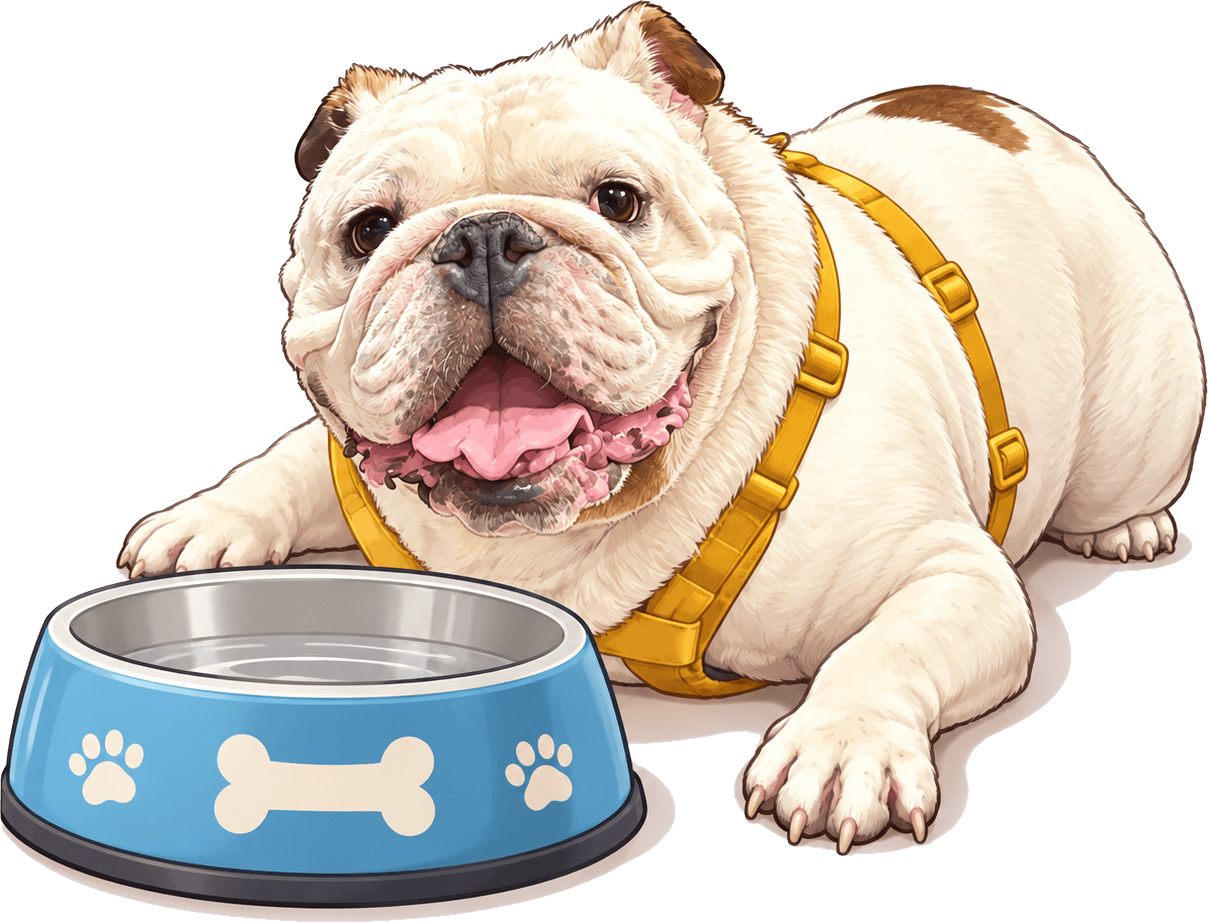
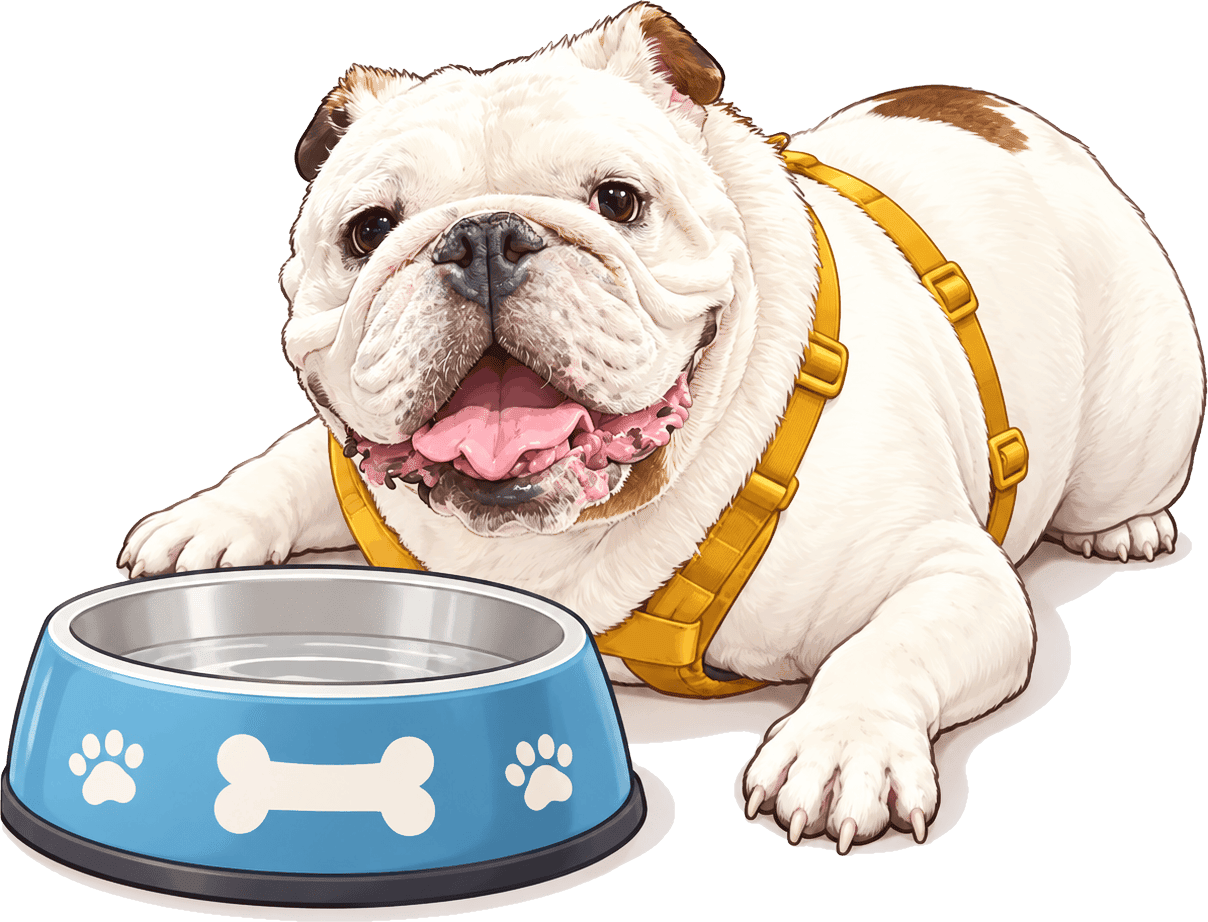
wishjar: 米其林碗的白毛調白（去米黃色） (#134)
Claude-Session: https://claude.ai/code/session_01J1mi4tysD9zT14bgkgKuBd

diff --git a/tools/whiten_dog.py b/tools/whiten_dog.py
@@ -1,0 +1,38 @@
+#!/usr/bin/env python3
+"""把許願碗的米其林（鬥牛犬）白毛調白一點（去掉米黃色）。
+用法：python3 tools/whiten_dog.py [--strength 0.6] 檔案.png [檔案2.png ...]（直接覆蓋原檔，原圖請先用 git 保留）
+只動「偏黃的淺色毛」：棕色斑塊、黃色胸背帶、粉紅舌頭、藍色碗不會被動到。"""
+import sys, argparse
+import numpy as np
+from PIL import Image
+
+def whiten(path, strength):
+    im = Image.open(path).convert('RGBA')
+    a = np.asarray(im).astype(np.float32) / 255.0
+    r, g, b, al = a[..., 0], a[..., 1], a[..., 2], a[..., 3]
+    mx = a[..., :3].max(-1); mn = a[..., :3].min(-1)
+    v = mx; s = np.where(mx > 0, (mx - mn) / np.maximum(mx, 1e-6), 0)
+    warm = (r >= g) & (g >= b)                                   # 偏黃／偏橘（紅>綠>藍），藍色碗、粉紅舌頭不會中
+    # 毛色：亮、飽和度低～中。棕斑（暗、飽和高）與黃色背帶（飽和很高）排除
+    w_v = np.clip((v - 0.50) / 0.25, 0, 1)
+    w_s = np.clip((0.55 - s) / 0.20, 0, 1)
+    w = (w_v * w_s * warm).astype(np.float32)
+    w = w * strength
+    s2 = s * (1 - 0.75 * w)                                      # 去掉黃味
+    v2 = np.minimum(1.0, v + (1 - v) * 0.45 * w)                # 稍微提亮
+    # 用新的 s、v 還原 RGB（保持原本的色相比例）
+    scale = np.where(mx > 0, v2 / np.maximum(mx, 1e-6), 1)
+    out = np.empty_like(a)
+    for i in range(3):
+        c = a[..., i] * scale
+        # 向灰色靠攏：新的飽和度
+        gray = v2
+        c = gray - (gray - c) * np.where(s > 1e-6, s2 / np.maximum(s, 1e-6), 1)
+        out[..., i] = np.clip(c, 0, 1)
+    out[..., 3] = al
+    Image.fromarray((out * 255 + 0.5).astype(np.uint8), 'RGBA').save(path)
+
+if __name__ == '__main__':
+    ap = argparse.ArgumentParser(); ap.add_argument('files', nargs='+'); ap.add_argument('--strength', type=float, default=0.6)
+    A = ap.parse_args()
+    for f in A.files: whiten(f, A.strength); print('ok', f)

diff --git a/CLAUDE.md b/CLAUDE.md
@@ -392,7 +392,7 @@
 | `tools/test_duel.js` | 單挑賽規則的自動測試（`node tools/test_duel.js`，不用開瀏覽器） |
 | `songrequest/index.html` | **另一個小程式：TikTok 直播點歌**（單頁；留言 `#歌名` → YouTube 搜尋 → 內嵌播放＋待播清單；網址 `…/Curry_Live/songrequest/`，OBS 加 `?obs=1`；設定存在網址裡；2026-11-20 最小版，沒在真的 TikFinity／YouTube 金鑰下測過；同日加歌詞：點歌成功後用影片標題、長度去 LRCLIB 查帶時間軸歌詞，跟著播放秒數顯示上一句／這一句／下一句，長度差超過 8 秒不採用，主播留言「歌詞提前／歌詞延後／歌詞歸零」或按鈕微調 0.5 秒；⚠ 沒對真的 LRCLIB 測過，華語歌命中率未知；2026-11-20 OBS 網址改短：設定（含 YouTube 金鑰）存進 Supabase（同亂鬥的 `live_get`／`live_put`，槽位 `songreq`），網址只帶雲端代號 `?obs=1&c=代號`，面板改設定停 0.8 秒自動存、OBS 畫面每 30 秒讀回套用；存雲端失敗時自動退回長網址；代號＝密碼，面板有「換新代號」；同日加音量與「顯示播放器」開關：面板滑桿設預設音量（預設 80，存雲端）、播放器上 🔉🔊 或主播留言「音量 30」可臨時調（雲端那份沒變就不會被蓋回去），關掉顯示播放器時影片移到畫面外、只剩聲音／歌名／歌詞／清單，自動播放被擋時會暫時顯示；⚠ 關掉播放器時 YouTube 是否照常播、是否違反 YouTube 對嵌入播放器的規定，沒驗證；2026-11-21 加「備用金鑰」（咖哩有兩個帳號、不同專案）：主要金鑰回 quotaExceeded 就改用備用的，用完的金鑰記在瀏覽器到太平洋時間午夜，兩把都用完才顯示額度用完；額度是算在專案上，備用金鑰必須來自不同專案；⚠ 用多個專案是否違反 YouTube 規定官方沒明說（額度擴充表單會問有沒有用多專案），風險由咖哩自行承擔，沒對真的 YouTube 測過；同日加「歌名記憶」：成功搜過的「歌名→影片」存雲端（同代號下的 `songreq-cache` 槽，最多 400 首、淘汰最久沒用的），下次開播先讀回來，命中就不花 YouTube 額度，命中時仍用目前的長度／黑名單重判；只有歌名打得一樣（不分大小寫、空白合併）才命中；影片放不出來時會把那筆記憶刪掉；⚠ 沒對真的 Supabase 測過；2026-11-21 加「自動重播」：沒人點歌也沒待播歌時，從這場觀眾點的第一首開始照順序重播、放完一輪回到第一首（只記在記憶體，重新整理就重新累積；面板有開關，預設開），觀眾一點歌就等正在放的這首放完再換觀眾的，放不出來的歌會從重播輪替裡拿掉；同日卡片與歌詞背景改透明，字改用黑色粗外框撐住，沒歌在放時 OBS 不留空播放器，右下提示條（點歌成功等）仍是黑底；2026-11-21 加「主播控制台」`songrequest/pad.html`：設定面板按「🎛 開啟主播控制台」開（帶 `?c=雲端代號`），OBS 畫面把狀態寫到雲端 `songreq-state`、每 1 秒讀 `songreq-cmd` 的指令（控制台存最近 20 個有遞增編號的指令，OBS 只執行比自己記的新的，第一次載入只記編號不重播），控制台可暫停／繼續／跳過／清空／**停止點歌**（暫停＋清空＋擋下新點歌＋關自動重播）／開始點歌／音量／歌詞微調／自動重播開關／待播清單單首刪除或插隊，並看到目前播放與待播；延遲約 1～3 秒，OBS 超過 45 秒沒回報就顯示離線；主播也可留言「停止點歌」「開始點歌」；用長網址（沒帶 `c=`）的 OBS 不支援控制台；2026-11-21 字級調整：歌詞縮小（目前句 42→32px、上下句 24→18px）、歌名 15→22px、待播清單 13→18px，主播控制台縮小（寬 460→330px、按鈕與間距變小，小視窗 440x760→340x560）；2026-11-23 加「廣告中」提示：歌詞區偵測到播放器的影片代號或長度跟要播的歌對不上時，顯示「📢 廣告中，歌詞稍後繼續」並暫停歌詞，廣告結束自動接回（`adPlaying()`）；⚠ 偵測方式是猜的（用假播放器測過，沒對真的 YouTube 廣告測過，可能偵測不到或誤判）；程式不能跳過廣告，要免廣告得用 Premium 登入播放的瀏覽器；2026-11-24 管理員帳號可填多個：設定頁「管理員的 TikTok 帳號」用逗號／頓號／空白分開，任一個帳號留言都能用主播指令（`hostIds()`／`isHost()`，仍比對帳號代號不比暱稱；舊的單一帳號設定照常可用）；2026-11-24 控制台拿掉頁尾「代號後 4 碼」字樣，並在載入後把網址列的代號拿掉（改記在這個瀏覽器的 `songreq.code`，重新整理仍可用；瀏覽器存不進去就保留網址）；⚠ 小視窗標題列仍會顯示網址（瀏覽器控制）但不再帶代號；用假資料測過；2026-11-24 修「一直顯示剛剛播過了」：原本播過的歌整場都不能再點，現在只擋 5 分鐘內播過的（`REPEAT_BLOCK_MS`，一開始是 10 分鐘，咖哩嫌長改 5），超過就能再點；自動重播不受影響） |
 | `songrequest/pad.html` | 點歌「主播控制台」（在一般瀏覽器開，透過雲端遙控 OBS 裡的點歌畫面；說明見上一列） |
-| `wishjar/index.html`／`setup.html`／`bowls.js`／`matter.min.js` | **另一個小程式：禮物許願碗**（2026-11-25 咖哩要求，仿 TikFinity 的許願瓶效果；一開始做成梅森罐玻璃瓶，咖哩給了一張淺藍色碗的圖後改成碗；單頁，網址 `…/Curry_Live/wishjar/`，OBS 加 `?obs=1`；**跟點歌程式完全分開，咖哩要求不要混在一起**）：畫面上一個淺藍色的碗（**2026-11-25 咖哩給了一張網路上的公開素材碗圖，說是公開素材，來源與授權 Claude 無法確認，使用由咖哩自行負責**；原圖只有 260x260，而且「透明背景」是假的棋盤格圖案，所以用程式把背景去掉、碗口內側的棋盤格換成淡淡的瓷白，再放大 3 倍存成 `wishjar/bowl_back.png`（碗口內側＋碗身，畫在銅錢後面）與 `bowl_front.png`（碗身前面一層，30% 透明蓋在銅錢上），碗圖本身有一個缺角和裂痕；**邊框與裂痕已加粗加深**（咖哩 2026-11-25 要求，深色像素往外長粗 1 像素、碗外緣再描 2 像素，顏色深藍 `#1E3E58`）；處理程式 `python3 tools/make_bowl.py [--line N --edge N]`，原圖放在 `tools/bowl_src/bowl_original.jpg`，想再粗就加大參數重跑；圖片載入不了時退回程式畫的碗），觀眾送禮時**那個禮物自己的圖片從上面掉進碗裡**（2026-11-25 咖哩先要求過全部改成金黃色銅錢，同日又要求換回禮物圖片；銅錢圖還在程式裡，網址加 `&coin=1` 就會把所有禮物畫成金黃色銅錢：圓形帶方孔，3 種稍微不同的金黃色），裝滿了就堆過碗口、滑到碗旁邊，碗外面停下來的禮物放 7 秒後淡出消失；（2026-11-25 咖哩要求：碗上方的標題「許願碗」與「禮物個數／鑽石數」都刪掉，預設什麼文字都不顯示；網址加 `&title=文字` 可顯示標題、`&stats=1` 可顯示個數與鑽石數）。禮物越貴圖越大（碗寬的 1 鑽 11%／100 鑽 16%／1000 鑽 19%／10000 鑽 22%；2026-11-26 咖哩用 283x283 的直播小框看，說禮物太小、沒看到從上面掉下來，所以圖放大約 2 倍、碗撐到畫面寬度的 86%、掉落放慢到約 1 秒落到碗底，並改成照真實時間算物理，直播軟體跑 30 格也不會變快變慢；碗變小後只裝得下十來個，很快就會滿出來）；一次送多個會一個個掉（單次最多 25 個）；用禮物圖片時，沒有圖片網址會畫成圓圓的表情符號。物理用 Matter.js 0.19.0（MIT，檔案直接放在 `wishjar/`，授權 `MATTER_LICENSE.txt`，不用連網載入）。直接用 TikFinity 的禮物事件（`ws://localhost:21213`，格式與連送處理照亂鬥遊戲 `js/events.js`），**不用雲端、不用設定**；網址參數：`&max=` 畫面上最多幾個（預設 350，碗約裝 60～100 個，超過會滿出來）、`&cap=` 單次最多掉幾個（預設 25）、`&title=` 標題（預設不顯示）、`&stats=1` 顯示禮物個數與鑽石數、`&coin=1` 全部改畫成銅錢、`&tikfinity=0` 不連線。沒有 `obs=1` 時左上有測試按鈕（丟 1／20 個、選鑽石數、清空）。**主播留言清空碗**（2026-11-26 咖哩要求）：網址加 `&host=你的TikTok帳號`（可填多個，逗號／頓號／空白分開，不用加 @，跟點歌的管理員帳號同一種寫法），該帳號在直播間留言「清空許願碗」（也認「清空碗」「clear」，整句剛好才算，前面可加 `!`，不分大小寫）就把碗清空；比對的是帳號代號（`uniqueId`／`userId`），不比暱稱，別人改暱稱冒充不了；沒填 `&host=` 就沒有這個指令。用假聊天事件測過（路人無效、整句不對無效、主播與多個管理員有效、冒用暱稱無效）；⚠ 沒用真的 TikFinity 驗證過留言事件裡的帳號欄位。⚠ 重新整理或關掉畫面，碗裡的禮物就清空（不存檔）；用假禮物圖與假事件測過（掉落、裝滿、滿出來、碗外淡出、連送只算新增），沒用真的 TikFinity／TikTok 禮物測過，也沒在 OBS／LIVE Studio 裡看過；禮物圖片要有 TikFinity 事件帶圖片網址才有圖 **設定頁與多個碗**（2026-11-26 咖哩要求「像直播亂鬥一樣做設定頁，所有設計的碗都在裡面設定、主播帳號也在這邊設、產生直播貼上網址」）：`wishjar/setup.html`（網址 `…/Curry_Live/wishjar/setup.html`）選碗（縮圖）、填主播帳號（多個）、標題、顯示個數鑽石數、銅錢、最多個數、單次上限，即時產生貼進直播軟體的網址（只寫與預設不同的參數）並有「複製網址」與預覽視窗；設定記在這個瀏覽器（`curryLive.wishjar.setup.v1`），不上雲端。碗的清單在 `wishjar/bowls.js`（`WJ_BOWLS`：id、name、back、front、U／cx／cy／openW 碗口位置、depth／foot 碗深與圈足比例），許願碗畫面用網址 `&bowl=代號` 選（沒給用第一個）。**新增碗**：做好兩層圖（`tools/make_bowl.py` 可處理），量好碗口位置，在 `bowls.js` 加一筆，設定頁就會出現。目前有「乞丐碗」（淺藍色破碗，id `blue`）「米其林碗」（鬥牛犬藍碗，id `dog`）「大寶狗碗」（柴犬藍碗，id `shiba`）三個（2026-11-26 咖哩改的名稱，三個同時上線），之後再加「米其林碗(動畫版)」「大寶狗碗(動畫版)」共五個。**第三個「大寶狗碗」**：咖哩給的圖是同一款藍色寵物碗，旁邊趴的是柴犬（狗在右邊、碗在左邊），做法與米其林碗相同，`python3 tools/make_bowl2.py bowl3`（`make_bowl2.py` 現在可帶名稱 `bowl2`／`bowl3`，每種的碗口橢圓與外框在腳本 `PRESETS`；原圖 `tools/bowl_src/bowl3_original.png`）；柴犬的前掌比碗底低一點，所以地板取在碗底與狗掌之間（`floorGap: 16`）；來源與授權同樣由咖哩自行負責；三個碗的大圖都用 `compress_pngs.py` 壓過（合計 5.7 MB→0.7 MB）。驗證：瀏覽器測過 640x420 與 283x283、設定頁三個碗都列得出來、選大寶狗碗網址帶 `&bowl=shiba`、無程式錯誤。**第二個碗「米其林碗」**（2026-11-26 咖哩給了一張藍色寵物碗旁邊趴著一隻鬥牛犬的圖，要求碗用這個、**狗要保留**；圖是咖哩提供，來源與授權 Claude 無法確認，使用由咖哩自行負責）：`wishjar/bowl2_back.png`（整張狗＋碗，去掉白底與地上陰影）與 `bowl2_front.png`（只有碗口前緣以下的外壁、完全不透明，蓋在禮物上，所以掉進碗裡的禮物下半截被碗壁擋住），處理程式 `python3 tools/make_bowl2.py`（原圖 `tools/bowl_src/bowl2_original.png`）。`bowls.js` 這筆用 `fit: true`：整張圖等比例縮進畫面（寬最多 94%、高扣掉邊），碗在圖的左下；物理仍是「碗口橢圓前半圈當碗底」（`depth` 0.15），禮物掉進碗口、裝滿後在碗口上方往上堆（碗口正上方的禮物不會淡出），堆到滑出碗口就掉到旁邊的地板（地板＝圖底那條線，禮物落在狗前面的地上，碰到的才會 7 秒後淡出）。新欄位：`Uh` 圖高、`fit`、`floorGap`（圖底到碗底的空隙）。⚠ 碗只佔整張圖寬度的約 4 成，方形小畫面（例如 283x283）裡碗約 110 像素寬，禮物會比淺藍碗小；想要碗大一點只能讓狗被畫面切掉一部分（沒做）；左邊碗與畫面邊緣幾乎沒空隙，往左滑出的禮物會擠在邊上。驗證：瀏覽器測過 283x283 與 640x420、14／60／70 個假禮物，掉進碗裡、往上堆、滑到旁邊地板都正常、無程式錯誤；⚠ 沒在直播軟體裡看過。**米其林碗、大寶狗碗：碗外的禮物不再 7 秒後消失**（2026-11-26 咖哩要求）：改成一直留在地板上，**堆到「狗鼻子的高度」才從最下面開始一個個消失**（每 0.15 秒一個，約 0.7 秒淡出）。`bowls.js` 新欄位 `noseY`（鼻子在圖裡的高度，米其林碗 250、大寶狗碗 337，是看圖量的，不準就改這個數字；沒有這欄的乞丐碗仍是 7 秒消失）。**分三堆各算各的**：碗左邊的地板、碗右邊的地板、碗口上方堆起來的；哪一堆最高的禮物到了鼻子高度，就從那一堆最下面的開始消失（所以左邊窄窄的那條堆高了，只會消掉左邊的，不會把右邊整片地板清掉）。只算停下來的禮物，還在掉的不算。驗證：瀏覽器丟 320 個假禮物，三堆都停在鼻子線下面、少量禮物 9 秒後碗外的都還在、乞丐碗仍照舊消失；⚠ 禮物很多時地板會堆很滿（上限 `&max=`）。**動畫版（第四、第五個樣式）**（2026-11-26 咖哩要求，選「程式動畫」方案 B）：「米其林碗(動畫版)」（id `dog_anim`）「大寶狗碗(動畫版)」（id `shiba_anim`），跟原本兩個一樣的狗與碗，但**狗頭另外一層會動**，禮物掉進碗（或掉到地板）**停下來 3 秒後，狗一個個把禮物吃掉**（全部都吃：碗裡、碗口堆起來的、地板上的；先吃最早掉下來的）。做法：`python3 tools/make_bowl_head.py` 把整張狗圖切成頭（`bowl2_head.png`／`bowl3_head.png`，邊緣羽化）與身體（`bowl2_body.png`／`bowl3_body.png`，頭那一塊挖掉；但頭後面其實是身體的地方——右邊肩膀、下面胸口——原樣留著，頭動起來才不會露出洞），頭的外框是看圖手動框的（`PRESETS`，外框會再往外放 10 像素把描邊一起帶走）。`bowls.js` 新欄位 `anim`（head 圖、hx／hy 頭圖左上角位置、px／py 轉動支點＝脖子、mx／my 嘴巴位置）。**吃的流程**（`index.html` 的 `eatTick`）：禮物停下來（速度很小）滿 3 秒才算可以吃；每隔一小段（排隊越多越短，0.9 秒～0.28 秒）挑最早的一個，變成不受碰撞、沿弧線飛向嘴巴（0.52 秒、越縮越小），到嘴巴就消失並讓狗咬一口；吃的時候狗頭低下去（往碗的方向歪 5 度、往下 30、往左 14，單位是圖上的格）並上下嚼，沒東西吃了 0.7 秒後抬回來；平常有很輕微的呼吸晃動。狗頭只會往下、往碗那邊動，不會往上，不然會露出頭原本的位置。**不用逐格圖**，所以畫風跟原圖完全一樣，但動作比較像紙偶（整顆頭一起動，嘴巴不會真的張合）。原本的「堆到鼻子高度就從最下面消失」仍然有效，當吃不完時的保險。驗證：瀏覽器測過兩隻 14 個假禮物 3～4 秒後開始吃、全部吃完、狗頭回正，非動畫版完全不吃、無程式錯誤，截圖看過頭低下去時沒有露出洞或殘邊；⚠ 沒在直播軟體裡看過，禮物很多時（吃得比掉得慢）還是會堆起來；嘴巴位置與頭低下去的幅度是抓的。**動畫版改用逐格動畫**（2026-11-26 咖哩用 Gemini 照 `tools/anim_prompts/wishjar_dog.md` 的提示詞生了兩張「站起來→吐舌捲禮物→咬→趴回去」8 格圖，原圖 `tools/bowl_src/dogsheet_bowl2.jpg`／`dogsheet_bowl3.jpg`）：第四、第五個樣式現在是**整隻狗換成逐格動畫**（取代前面說的「頭低下去」紙偶版，紙偶版的程式 `anim.head` 還留著但沒有樣式在用）。流程：`python3 tools/make_dog_strip.py <生圖> dogstrip_bowl2`（4x2 切格、綠底去背含去綠邊、每格右下角＝屁股＋腳底對齊成一排）；`python3 tools/make_bowl_only.py`（從原本「狗＋碗」圖取出只有碗的 `bowl2_bowl.png`／`bowl3_bowl.png`）。`bowls.js` 的 `anim` 改成 `sheet／n／fw／fh／k／ax／ay／states／mouth`（k 縮放、ax／ay 每格右下角貼在圖上的位置、states 各階段用哪幾格、mouth 每格嘴巴位置，都是看圖量的），`pad`＝圖上方多留的空間（狗站起來比較高），因此這兩筆的 `Uh`、`cy`、`noseY` 都已加上 pad。**狗的階段**（`index.html` 的 `dogTick`）：趴著（第 8 格）→ 一開始吃就播站起來（第 8、2、3 格，每秒 8 格）→ 吃的時候循環低頭吐舌與咬（第 3、4、6、7 格，每秒 5 格）→ 吃完 0.9 秒沒東西就趴回去（第 7、2、8 格）；禮物飛向「現在那一格」的嘴巴位置。⚠ Gemini 生的各格身體姿勢不完全一致（站姿與趴姿體型、角度略有不同），播放時有一點跳動感，趴姿的狗也跟原圖不完全一樣；第 1 格的屁股被格子邊切掉所以沒用；嘴巴位置是看圖估的；沒在直播軟體裡看過。**四個狗碗的禮物圖放大**（2026-11-26 咖哩反映「禮物圖片太小」）：`bowls.js` 新欄位 `giftScale`（禮物圖放大幾倍，預設 1，四個狗碗都設 1.8，因為整張狗圖縮進畫面後碗比較小，禮物按碗寬算就太小）；碗裡能裝的數量會變少（約 10 來個就滿）。驗證：283x283 與 640x440 各丟 22 個假禮物，圖明顯變大、無程式錯誤；⚠ 沒在直播軟體裡看過。**最低鑽石數**（同日咖哩要求在設定頁設）：設定頁「幾鑽以上的禮物才會掉下來」，網址 `&min=鑽石數`（預設 0＝全掉），比的是單個禮物的鑽石數（不是連送總數），低於的完全不掉也不算進個數；測試按鈕同樣受限制。驗證：瀏覽器測過設定頁產生網址、重新整理後設定還在、預覽可丟禮物、`&bowl=blue&host=` 開啟正常、無程式錯誤；⚠ 只有一個碗所以沒測過換碗，沒在直播軟體裡看過。 **左右都要有地面＋新的消失順序**（2026-11-26 咖哩看直播截圖後要求）：①四個狗碗在碗的左邊多留一塊地面（`bowls.js` 新欄位 `padLeft`＝碗左邊多留的圖上寬度，狗碗都是 330，版面算寬度時把它算進去）；②乞丐碗改小（新欄位 `widthFrac`＝碗寬佔畫面寬度的比例，預設 0.86，乞丐碗 0.58），左右各有地面，並加 `noseY: 8` 讓它也用新規則（不再 7 秒消失）；③消失順序改成：**先讓左右地面各自堆到碗口的高度**，碗口上方那一堆若超過鼻子線，會先被推到比較空的那一邊地面去；**左右地面都滿到碗口高度、碗上方的堆又到鼻子線時，才從「碗裡最下面、左邊地面最下面、右邊地面最下面」三者隨機挑一個消失**；某一邊地面自己高過鼻子線時，也會單獨從那邊最下面消失（超過越多消失越快）。程式 `index.html` 的 `fadeOutside()`。驗證：瀏覽器用 360x330／900x330／300x300 連續丟禮物（每 0.12 秒一個），總數維持在約 40～90 個、沒有程式錯誤，截圖看過狗碗左邊有地面、乞丐碗左右有空間；⚠ 碗口上方那堆有時會略高於鼻子線一點（沒有完美壓住），沒逐一確認「地面先堆到碗口高度才開始隨機消失」的先後，沒搭配動畫版狗吃禮物長時間測，沒在直播軟體裡看過。 **動畫版：超過幾鑽的禮物狗不吃**（2026-11-26 咖哩要求）：設定頁「動畫版的狗：單個禮物超過幾鑽就不吃」，網址 `&noeat=鑽石數`（預設 0＝全部都吃；比的是單個禮物的鑽石數，**超過**才不吃，剛好等於不算）；不吃的禮物留在碗裡或地上，堆太高時仍照原本規則從最下面消失；只對動畫版兩個碗有用。程式 `index.html` 的 `eatTick`（物件新增 `dia` 欄位記鑽石數）。驗證：動畫版丟 1／10／500／1000 鑽各一個、`&noeat=100`，12 秒後只剩 500、1000 鑽的；設定頁填 100 網址帶 `&noeat=100`、重新整理後還在；⚠ 沒在直播軟體裡看過。 |
+| `wishjar/index.html`／`setup.html`／`bowls.js`／`matter.min.js` | **另一個小程式：禮物許願碗**（2026-11-25 咖哩要求，仿 TikFinity 的許願瓶效果；一開始做成梅森罐玻璃瓶，咖哩給了一張淺藍色碗的圖後改成碗；單頁，網址 `…/Curry_Live/wishjar/`，OBS 加 `?obs=1`；**跟點歌程式完全分開，咖哩要求不要混在一起**）：畫面上一個淺藍色的碗（**2026-11-25 咖哩給了一張網路上的公開素材碗圖，說是公開素材，來源與授權 Claude 無法確認，使用由咖哩自行負責**；原圖只有 260x260，而且「透明背景」是假的棋盤格圖案，所以用程式把背景去掉、碗口內側的棋盤格換成淡淡的瓷白，再放大 3 倍存成 `wishjar/bowl_back.png`（碗口內側＋碗身，畫在銅錢後面）與 `bowl_front.png`（碗身前面一層，30% 透明蓋在銅錢上），碗圖本身有一個缺角和裂痕；**邊框與裂痕已加粗加深**（咖哩 2026-11-25 要求，深色像素往外長粗 1 像素、碗外緣再描 2 像素，顏色深藍 `#1E3E58`）；處理程式 `python3 tools/make_bowl.py [--line N --edge N]`，原圖放在 `tools/bowl_src/bowl_original.jpg`，想再粗就加大參數重跑；圖片載入不了時退回程式畫的碗），觀眾送禮時**那個禮物自己的圖片從上面掉進碗裡**（2026-11-25 咖哩先要求過全部改成金黃色銅錢，同日又要求換回禮物圖片；銅錢圖還在程式裡，網址加 `&coin=1` 就會把所有禮物畫成金黃色銅錢：圓形帶方孔，3 種稍微不同的金黃色），裝滿了就堆過碗口、滑到碗旁邊，碗外面停下來的禮物放 7 秒後淡出消失；（2026-11-25 咖哩要求：碗上方的標題「許願碗」與「禮物個數／鑽石數」都刪掉，預設什麼文字都不顯示；網址加 `&title=文字` 可顯示標題、`&stats=1` 可顯示個數與鑽石數）。禮物越貴圖越大（碗寬的 1 鑽 11%／100 鑽 16%／1000 鑽 19%／10000 鑽 22%；2026-11-26 咖哩用 283x283 的直播小框看，說禮物太小、沒看到從上面掉下來，所以圖放大約 2 倍、碗撐到畫面寬度的 86%、掉落放慢到約 1 秒落到碗底，並改成照真實時間算物理，直播軟體跑 30 格也不會變快變慢；碗變小後只裝得下十來個，很快就會滿出來）；一次送多個會一個個掉（單次最多 25 個）；用禮物圖片時，沒有圖片網址會畫成圓圓的表情符號。物理用 Matter.js 0.19.0（MIT，檔案直接放在 `wishjar/`，授權 `MATTER_LICENSE.txt`，不用連網載入）。直接用 TikFinity 的禮物事件（`ws://localhost:21213`，格式與連送處理照亂鬥遊戲 `js/events.js`），**不用雲端、不用設定**；網址參數：`&max=` 畫面上最多幾個（預設 350，碗約裝 60～100 個，超過會滿出來）、`&cap=` 單次最多掉幾個（預設 25）、`&title=` 標題（預設不顯示）、`&stats=1` 顯示禮物個數與鑽石數、`&coin=1` 全部改畫成銅錢、`&tikfinity=0` 不連線。沒有 `obs=1` 時左上有測試按鈕（丟 1／20 個、選鑽石數、清空）。**主播留言清空碗**（2026-11-26 咖哩要求）：網址加 `&host=你的TikTok帳號`（可填多個，逗號／頓號／空白分開，不用加 @，跟點歌的管理員帳號同一種寫法），該帳號在直播間留言「清空許願碗」（也認「清空碗」「clear」，整句剛好才算，前面可加 `!`，不分大小寫）就把碗清空；比對的是帳號代號（`uniqueId`／`userId`），不比暱稱，別人改暱稱冒充不了；沒填 `&host=` 就沒有這個指令。用假聊天事件測過（路人無效、整句不對無效、主播與多個管理員有效、冒用暱稱無效）；⚠ 沒用真的 TikFinity 驗證過留言事件裡的帳號欄位。⚠ 重新整理或關掉畫面，碗裡的禮物就清空（不存檔）；用假禮物圖與假事件測過（掉落、裝滿、滿出來、碗外淡出、連送只算新增），沒用真的 TikFinity／TikTok 禮物測過，也沒在 OBS／LIVE Studio 裡看過；禮物圖片要有 TikFinity 事件帶圖片網址才有圖 **設定頁與多個碗**（2026-11-26 咖哩要求「像直播亂鬥一樣做設定頁，所有設計的碗都在裡面設定、主播帳號也在這邊設、產生直播貼上網址」）：`wishjar/setup.html`（網址 `…/Curry_Live/wishjar/setup.html`）選碗（縮圖）、填主播帳號（多個）、標題、顯示個數鑽石數、銅錢、最多個數、單次上限，即時產生貼進直播軟體的網址（只寫與預設不同的參數）並有「複製網址」與預覽視窗；設定記在這個瀏覽器（`curryLive.wishjar.setup.v1`），不上雲端。碗的清單在 `wishjar/bowls.js`（`WJ_BOWLS`：id、name、back、front、U／cx／cy／openW 碗口位置、depth／foot 碗深與圈足比例），許願碗畫面用網址 `&bowl=代號` 選（沒給用第一個）。**新增碗**：做好兩層圖（`tools/make_bowl.py` 可處理），量好碗口位置，在 `bowls.js` 加一筆，設定頁就會出現。目前有「乞丐碗」（淺藍色破碗，id `blue`）「米其林碗」（鬥牛犬藍碗，id `dog`）「大寶狗碗」（柴犬藍碗，id `shiba`）三個（2026-11-26 咖哩改的名稱，三個同時上線），之後再加「米其林碗(動畫版)」「大寶狗碗(動畫版)」共五個。**第三個「大寶狗碗」**：咖哩給的圖是同一款藍色寵物碗，旁邊趴的是柴犬（狗在右邊、碗在左邊），做法與米其林碗相同，`python3 tools/make_bowl2.py bowl3`（`make_bowl2.py` 現在可帶名稱 `bowl2`／`bowl3`，每種的碗口橢圓與外框在腳本 `PRESETS`；原圖 `tools/bowl_src/bowl3_original.png`）；柴犬的前掌比碗底低一點，所以地板取在碗底與狗掌之間（`floorGap: 16`）；來源與授權同樣由咖哩自行負責；三個碗的大圖都用 `compress_pngs.py` 壓過（合計 5.7 MB→0.7 MB）。驗證：瀏覽器測過 640x420 與 283x283、設定頁三個碗都列得出來、選大寶狗碗網址帶 `&bowl=shiba`、無程式錯誤。**第二個碗「米其林碗」**（2026-11-26 咖哩給了一張藍色寵物碗旁邊趴著一隻鬥牛犬的圖，要求碗用這個、**狗要保留**；圖是咖哩提供，來源與授權 Claude 無法確認，使用由咖哩自行負責）：`wishjar/bowl2_back.png`（整張狗＋碗，去掉白底與地上陰影）與 `bowl2_front.png`（只有碗口前緣以下的外壁、完全不透明，蓋在禮物上，所以掉進碗裡的禮物下半截被碗壁擋住），處理程式 `python3 tools/make_bowl2.py`（原圖 `tools/bowl_src/bowl2_original.png`）。`bowls.js` 這筆用 `fit: true`：整張圖等比例縮進畫面（寬最多 94%、高扣掉邊），碗在圖的左下；物理仍是「碗口橢圓前半圈當碗底」（`depth` 0.15），禮物掉進碗口、裝滿後在碗口上方往上堆（碗口正上方的禮物不會淡出），堆到滑出碗口就掉到旁邊的地板（地板＝圖底那條線，禮物落在狗前面的地上，碰到的才會 7 秒後淡出）。新欄位：`Uh` 圖高、`fit`、`floorGap`（圖底到碗底的空隙）。⚠ 碗只佔整張圖寬度的約 4 成，方形小畫面（例如 283x283）裡碗約 110 像素寬，禮物會比淺藍碗小；想要碗大一點只能讓狗被畫面切掉一部分（沒做）；左邊碗與畫面邊緣幾乎沒空隙，往左滑出的禮物會擠在邊上。驗證：瀏覽器測過 283x283 與 640x420、14／60／70 個假禮物，掉進碗裡、往上堆、滑到旁邊地板都正常、無程式錯誤；⚠ 沒在直播軟體裡看過。**米其林碗、大寶狗碗：碗外的禮物不再 7 秒後消失**（2026-11-26 咖哩要求）：改成一直留在地板上，**堆到「狗鼻子的高度」才從最下面開始一個個消失**（每 0.15 秒一個，約 0.7 秒淡出）。`bowls.js` 新欄位 `noseY`（鼻子在圖裡的高度，米其林碗 250、大寶狗碗 337，是看圖量的，不準就改這個數字；沒有這欄的乞丐碗仍是 7 秒消失）。**分三堆各算各的**：碗左邊的地板、碗右邊的地板、碗口上方堆起來的；哪一堆最高的禮物到了鼻子高度，就從那一堆最下面的開始消失（所以左邊窄窄的那條堆高了，只會消掉左邊的，不會把右邊整片地板清掉）。只算停下來的禮物，還在掉的不算。驗證：瀏覽器丟 320 個假禮物，三堆都停在鼻子線下面、少量禮物 9 秒後碗外的都還在、乞丐碗仍照舊消失；⚠ 禮物很多時地板會堆很滿（上限 `&max=`）。**動畫版（第四、第五個樣式）**（2026-11-26 咖哩要求，選「程式動畫」方案 B）：「米其林碗(動畫版)」（id `dog_anim`）「大寶狗碗(動畫版)」（id `shiba_anim`），跟原本兩個一樣的狗與碗，但**狗頭另外一層會動**，禮物掉進碗（或掉到地板）**停下來 3 秒後，狗一個個把禮物吃掉**（全部都吃：碗裡、碗口堆起來的、地板上的；先吃最早掉下來的）。做法：`python3 tools/make_bowl_head.py` 把整張狗圖切成頭（`bowl2_head.png`／`bowl3_head.png`，邊緣羽化）與身體（`bowl2_body.png`／`bowl3_body.png`，頭那一塊挖掉；但頭後面其實是身體的地方——右邊肩膀、下面胸口——原樣留著，頭動起來才不會露出洞），頭的外框是看圖手動框的（`PRESETS`，外框會再往外放 10 像素把描邊一起帶走）。`bowls.js` 新欄位 `anim`（head 圖、hx／hy 頭圖左上角位置、px／py 轉動支點＝脖子、mx／my 嘴巴位置）。**吃的流程**（`index.html` 的 `eatTick`）：禮物停下來（速度很小）滿 3 秒才算可以吃；每隔一小段（排隊越多越短，0.9 秒～0.28 秒）挑最早的一個，變成不受碰撞、沿弧線飛向嘴巴（0.52 秒、越縮越小），到嘴巴就消失並讓狗咬一口；吃的時候狗頭低下去（往碗的方向歪 5 度、往下 30、往左 14，單位是圖上的格）並上下嚼，沒東西吃了 0.7 秒後抬回來；平常有很輕微的呼吸晃動。狗頭只會往下、往碗那邊動，不會往上，不然會露出頭原本的位置。**不用逐格圖**，所以畫風跟原圖完全一樣，但動作比較像紙偶（整顆頭一起動，嘴巴不會真的張合）。原本的「堆到鼻子高度就從最下面消失」仍然有效，當吃不完時的保險。驗證：瀏覽器測過兩隻 14 個假禮物 3～4 秒後開始吃、全部吃完、狗頭回正，非動畫版完全不吃、無程式錯誤，截圖看過頭低下去時沒有露出洞或殘邊；⚠ 沒在直播軟體裡看過，禮物很多時（吃得比掉得慢）還是會堆起來；嘴巴位置與頭低下去的幅度是抓的。**動畫版改用逐格動畫**（2026-11-26 咖哩用 Gemini 照 `tools/anim_prompts/wishjar_dog.md` 的提示詞生了兩張「站起來→吐舌捲禮物→咬→趴回去」8 格圖，原圖 `tools/bowl_src/dogsheet_bowl2.jpg`／`dogsheet_bowl3.jpg`）：第四、第五個樣式現在是**整隻狗換成逐格動畫**（取代前面說的「頭低下去」紙偶版，紙偶版的程式 `anim.head` 還留著但沒有樣式在用）。流程：`python3 tools/make_dog_strip.py <生圖> dogstrip_bowl2`（4x2 切格、綠底去背含去綠邊、每格右下角＝屁股＋腳底對齊成一排）；`python3 tools/make_bowl_only.py`（從原本「狗＋碗」圖取出只有碗的 `bowl2_bowl.png`／`bowl3_bowl.png`）。`bowls.js` 的 `anim` 改成 `sheet／n／fw／fh／k／ax／ay／states／mouth`（k 縮放、ax／ay 每格右下角貼在圖上的位置、states 各階段用哪幾格、mouth 每格嘴巴位置，都是看圖量的），`pad`＝圖上方多留的空間（狗站起來比較高），因此這兩筆的 `Uh`、`cy`、`noseY` 都已加上 pad。**狗的階段**（`index.html` 的 `dogTick`）：趴著（第 8 格）→ 一開始吃就播站起來（第 8、2、3 格，每秒 8 格）→ 吃的時候循環低頭吐舌與咬（第 3、4、6、7 格，每秒 5 格）→ 吃完 0.9 秒沒東西就趴回去（第 7、2、8 格）；禮物飛向「現在那一格」的嘴巴位置。⚠ Gemini 生的各格身體姿勢不完全一致（站姿與趴姿體型、角度略有不同），播放時有一點跳動感，趴姿的狗也跟原圖不完全一樣；第 1 格的屁股被格子邊切掉所以沒用；嘴巴位置是看圖估的；沒在直播軟體裡看過。**四個狗碗的禮物圖放大**（2026-11-26 咖哩反映「禮物圖片太小」）：`bowls.js` 新欄位 `giftScale`（禮物圖放大幾倍，預設 1，四個狗碗都設 1.8，因為整張狗圖縮進畫面後碗比較小，禮物按碗寬算就太小）；碗裡能裝的數量會變少（約 10 來個就滿）。驗證：283x283 與 640x440 各丟 22 個假禮物，圖明顯變大、無程式錯誤；⚠ 沒在直播軟體裡看過。**最低鑽石數**（同日咖哩要求在設定頁設）：設定頁「幾鑽以上的禮物才會掉下來」，網址 `&min=鑽石數`（預設 0＝全掉），比的是單個禮物的鑽石數（不是連送總數），低於的完全不掉也不算進個數；測試按鈕同樣受限制。驗證：瀏覽器測過設定頁產生網址、重新整理後設定還在、預覽可丟禮物、`&bowl=blue&host=` 開啟正常、無程式錯誤；⚠ 只有一個碗所以沒測過換碗，沒在直播軟體裡看過。 **左右都要有地面＋新的消失順序**（2026-11-26 咖哩看直播截圖後要求）：①四個狗碗在碗的左邊多留一塊地面（`bowls.js` 新欄位 `padLeft`＝碗左邊多留的圖上寬度，狗碗都是 330，版面算寬度時把它算進去）；②乞丐碗改小（新欄位 `widthFrac`＝碗寬佔畫面寬度的比例，預設 0.86，乞丐碗 0.58），左右各有地面，並加 `noseY: 8` 讓它也用新規則（不再 7 秒消失）；③消失順序改成：**先讓左右地面各自堆到碗口的高度**，碗口上方那一堆若超過鼻子線，會先被推到比較空的那一邊地面去；**左右地面都滿到碗口高度、碗上方的堆又到鼻子線時，才從「碗裡最下面、左邊地面最下面、右邊地面最下面」三者隨機挑一個消失**；某一邊地面自己高過鼻子線時，也會單獨從那邊最下面消失（超過越多消失越快）。程式 `index.html` 的 `fadeOutside()`。驗證：瀏覽器用 360x330／900x330／300x300 連續丟禮物（每 0.12 秒一個），總數維持在約 40～90 個、沒有程式錯誤，截圖看過狗碗左邊有地面、乞丐碗左右有空間；⚠ 碗口上方那堆有時會略高於鼻子線一點（沒有完美壓住），沒逐一確認「地面先堆到碗口高度才開始隨機消失」的先後，沒搭配動畫版狗吃禮物長時間測，沒在直播軟體裡看過。 **動畫版：超過幾鑽的禮物狗不吃**（2026-11-26 咖哩要求）：設定頁「動畫版的狗：單個禮物超過幾鑽就不吃」，網址 `&noeat=鑽石數`（預設 0＝全部都吃；比的是單個禮物的鑽石數，**超過**才不吃，剛好等於不算）；不吃的禮物留在碗裡或地上，堆太高時仍照原本規則從最下面消失；只對動畫版兩個碗有用。程式 `index.html` 的 `eatTick`（物件新增 `dia` 欄位記鑽石數）。驗證：動畫版丟 1／10／500／1000 鑽各一個、`&noeat=100`，12 秒後只剩 500、1000 鑽的；設定頁填 100 網址帶 `&noeat=100`、重新整理後還在；⚠ 沒在直播軟體裡看過。 **米其林碗的白毛調白**（2026-11-27 咖哩嫌「偏米白色」）：用 `python3 tools/whiten_dog.py <檔案>`（可加 `--strength 0.6`，越大越白）把偏黃的淺色毛去黃提亮，棕色耳朵與斑塊、黃色胸背帶、粉紅舌頭、藍碗不動；已套用在 `bowl2_back.png`（米其林碗）、`dogstrip_bowl2.png`（動畫版逐格圖）、`bowl2_bowl.png`（動畫版的碗，骨頭圖案也跟著變白），之後用 `compress_pngs.py` 壓過。⚠ 要重做時先從 git 拿回原圖再跑，不然會越調越白；**大寶狗碗（柴犬）沒動**；`bowl2_body.png`／`bowl2_head.png`（舊紙偶版，沒有樣式在用）沒動。驗證：瀏覽器看過米其林碗與動畫版（含狗張嘴吃禮物的畫面），毛色白、棕斑與背帶顏色正常、無程式錯誤；⚠ 沒在直播軟體裡看過。 |
 | `tools/sync_from_curry_games.py` | 從 Curry_Games 同步資料與全身圖 |
 
 ## 工作方式
